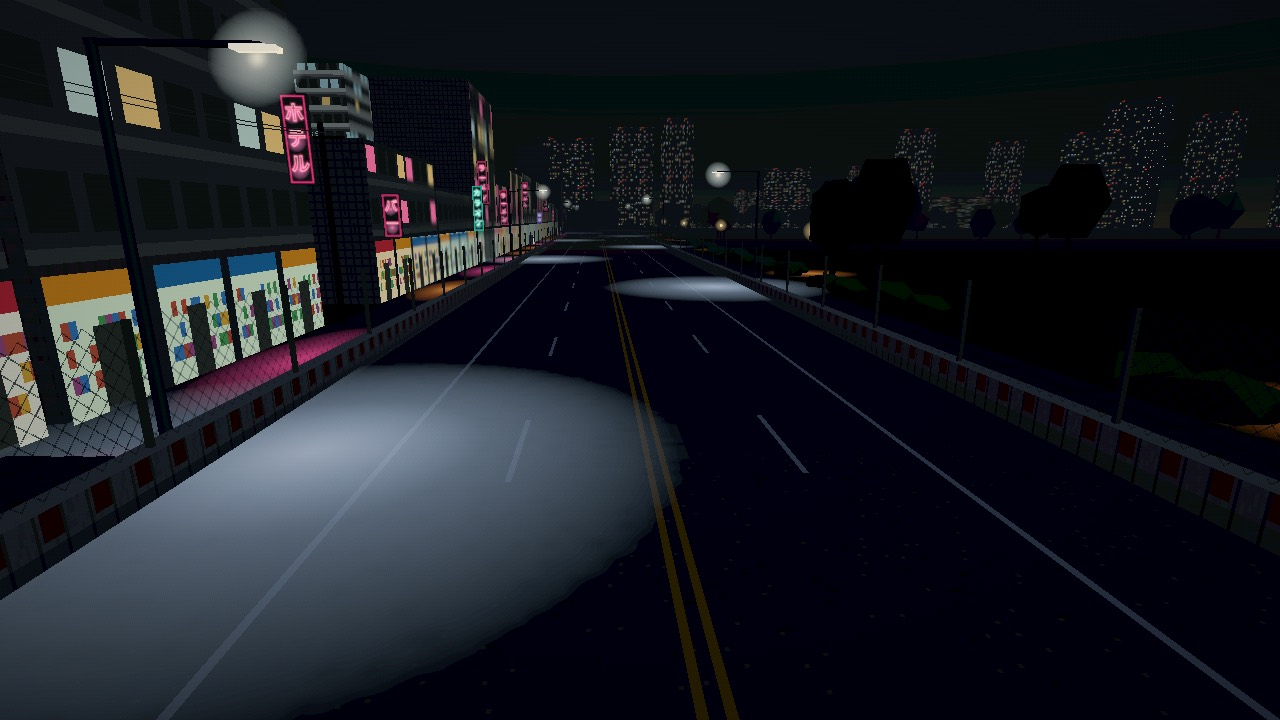
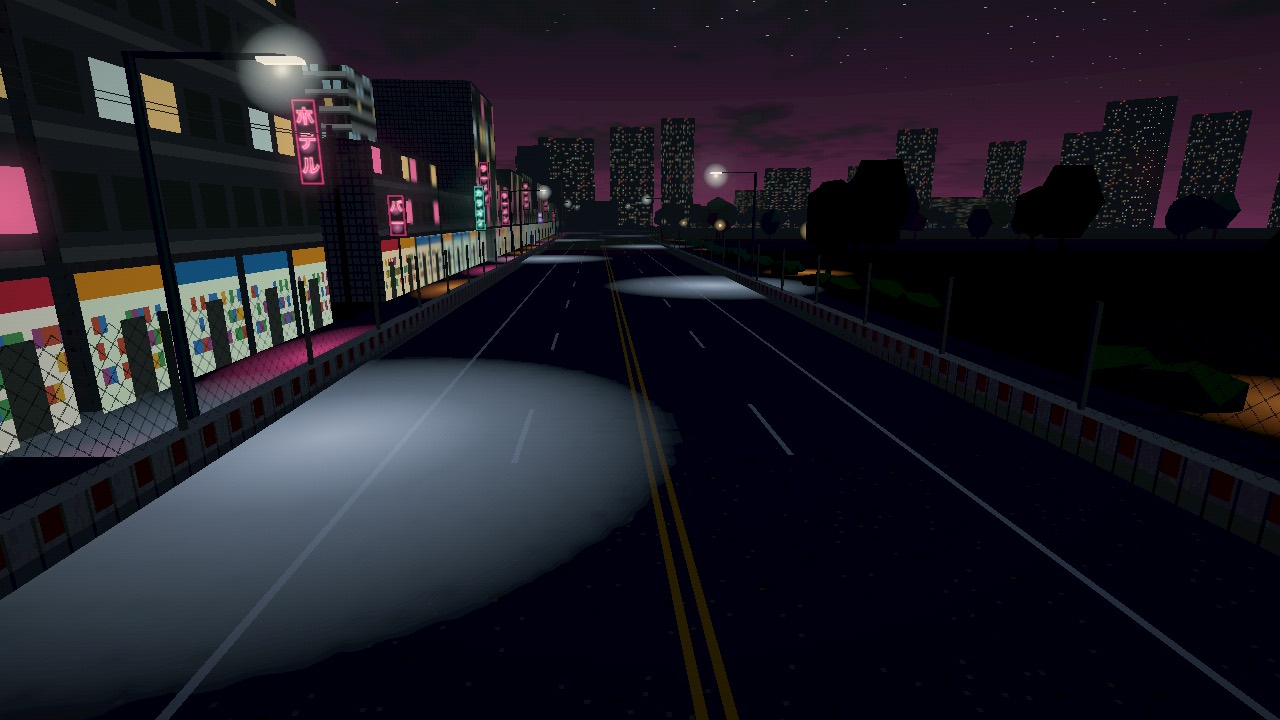
Particles: soft rotating smoke puffs and flame glows (PS2-style sprites), sparks as streaks; loading stills re-rendered with the new sky

diff --git a/src/graphics/effects.js b/src/graphics/effects.js
@@ -1,6 +1,8 @@
 // Small effects, each switchable in Settings > Graphics: tyre smoke (spray
-// in the wet), exhaust flames, skid marks and sparks. Particles are square points in the low-res render, so they
-// read as chunky pixels like everything else.
+// in the wet), exhaust flames, skid marks and sparks. In the spirit of PS2
+// racers: smoke and flames are soft painted sprites (puffs of cloud that
+// turn and swell as they fade, a hot glow for flames), and sparks are thin
+// bright streaks that stretch with their speed, not squares.
 
 import * as THREE from 'three';
 
@@ -10,30 +12,79 @@ const _w = new THREE.Vector3();
 const VERT = /* glsl */`
 attribute float size;
 attribute vec4 tint;
+attribute vec2 spin; // angle, sprite tile
 uniform float scale;
 uniform float fogNear;
 uniform float fogFar;
+uniform float maxSize;
 varying vec4 vTint;
+varying vec2 vSpin;
 void main() {
   vec4 mv = modelViewMatrix * vec4(position, 1.0);
   gl_Position = projectionMatrix * mv;
-  // Capped, and faded right in front of the lens, so a puff of smoke
-  // passing the camera never fills the screen with one big square.
-  gl_PointSize = clamp(size * scale / -mv.z, 1.0, 14.0);
+  gl_PointSize = clamp(size * scale / -mv.z, 1.0, maxSize);
+  // Faded right in front of the lens, so smoke passing the camera never
+  // fills the screen.
   float fog = smoothstep(fogNear, fogFar, -mv.z);
-  float near = smoothstep(1.0, 3.5, -mv.z);
+  float near = smoothstep(0.8, 4.0, -mv.z);
   vTint = vec4(tint.rgb, tint.a * (1.0 - fog) * near);
+  vSpin = spin;
 }`;
 const FRAG = /* glsl */`
+uniform sampler2D map;
+uniform float tiles; // sprites per row in the map
 varying vec4 vTint;
+varying vec2 vSpin;
 void main() {
   if (vTint.a < 0.01) discard;
-  gl_FragColor = vTint;
+  vec2 p = gl_PointCoord - 0.5;
+  float c = cos(vSpin.x), s = sin(vSpin.x);
+  p = vec2(c * p.x - s * p.y, s * p.x + c * p.y) + 0.5;
+  if (p.x < 0.0 || p.x > 1.0 || p.y < 0.0 || p.y > 1.0) discard;
+  float t = floor(vSpin.y + 0.5);
+  vec2 cell = vec2(mod(t, tiles), floor(t / tiles));
+  vec4 tex = texture2D(map, (cell + p) / tiles);
+  tex.a *= smoothstep(0.5, 0.3, length(p - 0.5)); // always round, never a square
+  gl_FragColor = vec4(vTint.rgb * tex.rgb, vTint.a * tex.a);
 }`;
 
-// A pool of particles drawn as one THREE.Points.
+// Sprite sheets, painted once on a canvas. Smoke: four puffs, each a heap of
+// soft blobs with a lit top and a darker underside. Glow: one hot round spot.
+function spriteSheet(kind) {
+  const N = kind === 'smoke' ? 2 : 1, S = 64;
+  const c = document.createElement('canvas');
+  c.width = c.height = S * N;
+  const g = c.getContext('2d');
+  let seed = 7;
+  const r = () => ((seed = (seed * 16807) % 2147483647) / 2147483647);
+  for (let t = 0; t < N * N; t++) {
+    const ox = (t % N) * S, oy = Math.floor(t / N) * S;
+    if (kind === 'glow') {
+      const grad = g.createRadialGradient(ox + S / 2, oy + S / 2, 0, ox + S / 2, oy + S / 2, S / 2);
+      grad.addColorStop(0, 'rgba(255,255,255,1)'); grad.addColorStop(0.25, 'rgba(255,255,255,0.75)');
+      grad.addColorStop(0.6, 'rgba(255,255,255,0.18)'); grad.addColorStop(1, 'rgba(255,255,255,0)');
+      g.fillStyle = grad; g.fillRect(ox, oy, S, S);
+      continue;
+    }
+    for (let k = 0; k < 22; k++) {
+      const a = r() * Math.PI * 2, d = Math.sqrt(r()) * S * 0.17;
+      const x = ox + S / 2 + Math.cos(a) * d, y = oy + S / 2 + Math.sin(a) * d;
+      const rad = S * (0.1 + r() * 0.14);
+      const shade = Math.round(200 + (S / 2 - (y - oy)) / S * 90 + r() * 30); // lighter on top
+      const grad = g.createRadialGradient(x, y, 0, x, y, rad);
+      grad.addColorStop(0, `rgba(${shade},${shade},${shade},0.22)`);
+      grad.addColorStop(1, `rgba(${shade},${shade},${shade},0)`);
+      g.fillStyle = grad; g.fillRect(ox, oy, S, S);
+    }
+  }
+  const tex = new THREE.CanvasTexture(c);
+  tex.colorSpace = THREE.SRGBColorSpace;
+  return { tex, tiles: N };
+}
+
+// A pool of sprites drawn as one THREE.Points.
 class Particles {
-  constructor(max, additive) {
+  constructor(max, { additive = false, sheet, maxSize = 120 } = {}) {
     this.max = max;
     this.pos = new Float32Array(max * 3);
     this.vel = new Float32Array(max * 3);
@@ -44,12 +95,16 @@ class Particles {
     this.rgba = new Float32Array(max * 4);
     this.tint = new Float32Array(max * 4);
     this.size = new Float32Array(max);
+    this.spin = new Float32Array(max * 2);
+    this.turn = new Float32Array(max);
+    this.tiles = sheet.tiles;
     this.next = 0;
     const g = new THREE.BufferGeometry();
     g.setAttribute('position', new THREE.BufferAttribute(this.pos, 3).setUsage(THREE.DynamicDrawUsage));
     g.setAttribute('size', new THREE.BufferAttribute(this.size, 1).setUsage(THREE.DynamicDrawUsage));
     g.setAttribute('tint', new THREE.BufferAttribute(this.tint, 4).setUsage(THREE.DynamicDrawUsage));
-    this.uniforms = { scale: { value: 300 }, fogNear: { value: 25 }, fogFar: { value: 200 } };
+    g.setAttribute('spin', new THREE.BufferAttribute(this.spin, 2).setUsage(THREE.DynamicDrawUsage));
+    this.uniforms = { scale: { value: 300 }, fogNear: { value: 25 }, fogFar: { value: 200 }, maxSize: { value: maxSize }, map: { value: sheet.tex }, tiles: { value: sheet.tiles } };
     const m = new THREE.ShaderMaterial({
       uniforms: this.uniforms, vertexShader: VERT, fragmentShader: FRAG,
       transparent: true, depthWrite: false,
@@ -68,6 +123,9 @@ class Particles {
     this.life[i] = life; this.span[i] = life;
     this.size0[i] = size; this.grow[i] = grow;
     this.rgba.set([r, g, b, a], i * 4);
+    this.spin[i * 2] = Math.random() * Math.PI * 2;
+    this.spin[i * 2 + 1] = Math.floor(Math.random() * this.tiles * this.tiles);
+    this.turn[i] = (Math.random() - 0.5) * 1.6;
   }
 
   update(dt, gravity = 0, drag = 0, fadeIn = 0) {
@@ -80,8 +138,10 @@ class Particles {
       this.pos[j] += this.vel[j] * dt; this.pos[j + 1] += this.vel[j + 1] * dt; this.pos[j + 2] += this.vel[j + 2] * dt;
       if (this.pos[j + 1] < 0.02) { this.pos[j + 1] = 0.02; this.vel[j + 1] *= -0.3; }
       const t = 1 - this.life[i] / this.span[i]; // 0 new .. 1 dead
-      const fade = (fadeIn > 0 ? Math.min(1, t / fadeIn) : 1) * (1 - t);
-      this.size[i] = this.size0[i] + this.grow[i] * t;
+      // Ease in, then fade out slowly (smoke thins away rather than popping).
+      const fade = (fadeIn > 0 ? Math.min(1, t / fadeIn) : 1) * (1 - t) * (1 - t * 0.4);
+      this.size[i] = this.size0[i] + this.grow[i] * Math.sqrt(t);
+      this.spin[i * 2] += this.turn[i] * dt;
       const q = i * 4;
       this.tint[q] = this.rgba[q]; this.tint[q + 1] = this.rgba[q + 1]; this.tint[q + 2] = this.rgba[q + 2];
       this.tint[q + 3] = this.rgba[q + 3] * fade;
@@ -91,10 +151,67 @@ class Particles {
 
   upload() {
     const a = this.points.geometry.attributes;
-    a.position.needsUpdate = true; a.size.needsUpdate = true; a.tint.needsUpdate = true;
+    a.position.needsUpdate = true; a.size.needsUpdate = true; a.tint.needsUpdate = true; a.spin.needsUpdate = true;
   }
 
   clear() { this.life.fill(0); this.size.fill(0); this.tint.fill(0); this.upload(); }
+}
+
+// Sparks: thin streaks, each drawn from where it is back along its path, so
+// a fast spark is a long scratch of light. Hot white-yellow, cooling to
+// orange as they fall.
+class Streaks {
+  constructor(max) {
+    this.max = max;
+    this.p = new Float32Array(max * 3);
+    this.v = new Float32Array(max * 3);
+    this.life = new Float32Array(max);
+    this.span = new Float32Array(max);
+    this.pos = new Float32Array(max * 6);
+    this.col = new Float32Array(max * 8);
+    this.next = 0;
+    const g = new THREE.BufferGeometry();
+    g.setAttribute('position', new THREE.BufferAttribute(this.pos, 3).setUsage(THREE.DynamicDrawUsage));
+    g.setAttribute('tint', new THREE.BufferAttribute(this.col, 4).setUsage(THREE.DynamicDrawUsage));
+    const m = new THREE.ShaderMaterial({
+      vertexShader: 'attribute vec4 tint; varying vec4 vT; void main(){ vT = tint; gl_Position = projectionMatrix * modelViewMatrix * vec4(position,1.0); }',
+      fragmentShader: 'varying vec4 vT; void main(){ if (vT.a < 0.01) discard; gl_FragColor = vT; }',
+      transparent: true, depthWrite: false, blending: THREE.AdditiveBlending,
+    });
+    this.lines = new THREE.LineSegments(g, m);
+    this.lines.frustumCulled = false;
+    this.lines.renderOrder = 3;
+    this.points = this.lines; // shown and hidden like the sprite pools
+  }
+
+  spawn(x, y, z, vx, vy, vz, life) {
+    const i = this.next;
+    this.next = (this.next + 1) % this.max;
+    this.p.set([x, y, z], i * 3);
+    this.v.set([vx, vy, vz], i * 3);
+    this.life[i] = life; this.span[i] = life;
+  }
+
+  update(dt, gravity, drag) {
+    const k = Math.max(0, 1 - drag * dt);
+    for (let i = 0; i < this.max; i++) {
+      const j = i * 3, o = i * 6, c = i * 8;
+      if (this.life[i] <= 0) { this.col[c + 3] = this.col[c + 7] = 0; continue; }
+      this.life[i] -= dt;
+      this.v[j] *= k; this.v[j + 1] = this.v[j + 1] * k - gravity * dt; this.v[j + 2] *= k;
+      this.p[j] += this.v[j] * dt; this.p[j + 1] += this.v[j + 1] * dt; this.p[j + 2] += this.v[j + 2] * dt;
+      if (this.p[j + 1] < 0.02) { this.p[j + 1] = 0.02; this.v[j + 1] *= -0.4; this.v[j] *= 0.7; this.v[j + 2] *= 0.7; }
+      const t = 1 - this.life[i] / this.span[i];
+      const tail = 0.03; // seconds of path behind the head
+      this.pos.set([this.p[j], this.p[j + 1], this.p[j + 2], this.p[j] - this.v[j] * tail, this.p[j + 1] - this.v[j + 1] * tail, this.p[j + 2] - this.v[j + 2] * tail], o);
+      const a = 1 - t;
+      this.col.set([1, 0.95 - t * 0.4, 0.75 - t * 0.6, a, 1, 0.55 - t * 0.3, 0.15, a * 0.3], c);
+    }
+    const at = this.lines.geometry.attributes;
+    at.position.needsUpdate = true; at.tint.needsUpdate = true;
+  }
+
+  clear() { this.life.fill(0); this.col.fill(0); this.lines.geometry.attributes.tint.needsUpdate = true; }
 }
 
 // Dark tyre marks: a ring buffer of thin quads on the road.
@@ -146,9 +263,9 @@ export class Effects {
   constructor(scene) {
     this.scene = scene;
     this.on = {};
-    this.smoke = new Particles(500, false);
-    this.fire = new Particles(160, true);
-    this.sparks = new Particles(260, true);
+    this.smoke = new Particles(420, { sheet: spriteSheet('smoke'), maxSize: 260 });
+    this.fire = new Particles(160, { additive: true, sheet: spriteSheet('glow'), maxSize: 60 });
+    this.sparks = new Streaks(300);
     this.skids = new SkidMarks();
     scene.add(this.smoke.points, this.fire.points, this.sparks.points, this.skids.mesh);
     this.onPop = null;
@@ -184,14 +301,13 @@ export class Effects {
       // Along the car's travel, bouncing off the wall.
       const tx = v.vx * 0.5 + contact.nx * sp * 0.6 + (Math.random() - 0.5) * 3;
       const tz = v.vz * 0.5 + contact.nz * sp * 0.6 + (Math.random() - 0.5) * 3;
-      this.sparks.spawn(contact.x, 0.35 + Math.random() * 0.4, contact.z, tx, 1 + Math.random() * 3, tz,
-        0.25 + Math.random() * 0.35, 0.06, -0.04, 1, 0.75 + Math.random() * 0.2, 0.35, 1);
+      this.sparks.spawn(contact.x, 0.3 + Math.random() * 0.45, contact.z, tx, 1 + Math.random() * 3.5, tz, 0.2 + Math.random() * 0.4);
     }
   }
 
   update(dt, v, model, camera, nearLamps, weather) {
     const scale = this.scaleFor(camera);
-    for (const p of [this.smoke, this.fire, this.sparks]) {
+    for (const p of [this.smoke, this.fire]) {
       p.uniforms.scale.value = scale;
       p.uniforms.fogNear.value = this.scene.fog.near;
       p.uniforms.fogFar.value = this.scene.fog.far;
@@ -211,7 +327,7 @@ export class Effects {
       else this.skids.lift(w);
     }
     this.smokeAcc += dt;
-    if (this.smokeAcc > 1 / 60) {
+    if (this.smokeAcc > 1 / 45) {
       this.smokeAcc = 0;
       for (let w = 0; w < 2; w++) {
         model.wheels[2 + w].steer.getWorldPosition(_v);
@@ -219,12 +335,12 @@ export class Effects {
           // Spray behind each rear wheel, lighter and faster than smoke.
           const k = Math.min(1, v.speed / 40);
           for (let i = 0; i < 2; i++) this.smoke.spawn(_v.x, 0.2, _v.z, -v.vx * 0.15 + (Math.random() - 0.5) * 1.5, 0.8 + Math.random(), -v.vz * 0.15 + (Math.random() - 0.5) * 1.5,
-            0.35 + Math.random() * 0.25, 0.25, 0.9 * k, 0.55, 0.6, 0.62, 0.25 * k);
+            0.35 + Math.random() * 0.25, 0.5, 1.4 * k, 0.6, 0.64, 0.68, 0.3 * k);
         } else if (this.on.smoke && slide > 0.05) {
-          const a = Math.min(0.55, slide * 0.7);
-          this.smoke.spawn(_v.x + (Math.random() - 0.5) * 0.3, 0.25, _v.z + (Math.random() - 0.5) * 0.3,
-            v.vx * 0.25 + (Math.random() - 0.5) * 1.2, 0.5 + Math.random() * 0.6, v.vz * 0.25 + (Math.random() - 0.5) * 1.2,
-            1.4 + Math.random() * 1.2, 0.35, 2.4, 0.62, 0.63, 0.62, a);
+          const a = Math.min(0.5, slide * 0.6);
+          this.smoke.spawn(_v.x + (Math.random() - 0.5) * 0.3, 0.3, _v.z + (Math.random() - 0.5) * 0.3,
+            v.vx * 0.25 + (Math.random() - 0.5) * 1.2, 0.4 + Math.random() * 0.6, v.vz * 0.25 + (Math.random() - 0.5) * 1.2,
+            1.4 + Math.random() * 1.2, 0.6, 3.0, 0.64, 0.65, 0.67, a);
         }
       }
     }
@@ -250,7 +366,7 @@ export class Effects {
           const blue = i < 3;
           const sp = 3 + Math.random() * 4;
           this.fire.spawn(_v.x, _v.y, _v.z, v.vx - _w.x * sp + (Math.random() - 0.5), (Math.random() - 0.3) * 0.8, v.vz - _w.z * sp + (Math.random() - 0.5),
-            0.06 + Math.random() * 0.08, blue ? 0.12 : 0.2 * strength, -0.1, blue ? 0.4 : 1, blue ? 0.55 : 0.5 + Math.random() * 0.3, blue ? 1 : 0.12, 1);
+            0.06 + Math.random() * 0.08, blue ? 0.22 : 0.4 * strength, -0.15, blue ? 0.4 : 1, blue ? 0.55 : 0.5 + Math.random() * 0.3, blue ? 1 : 0.12, 1);
         }
       }
     }
